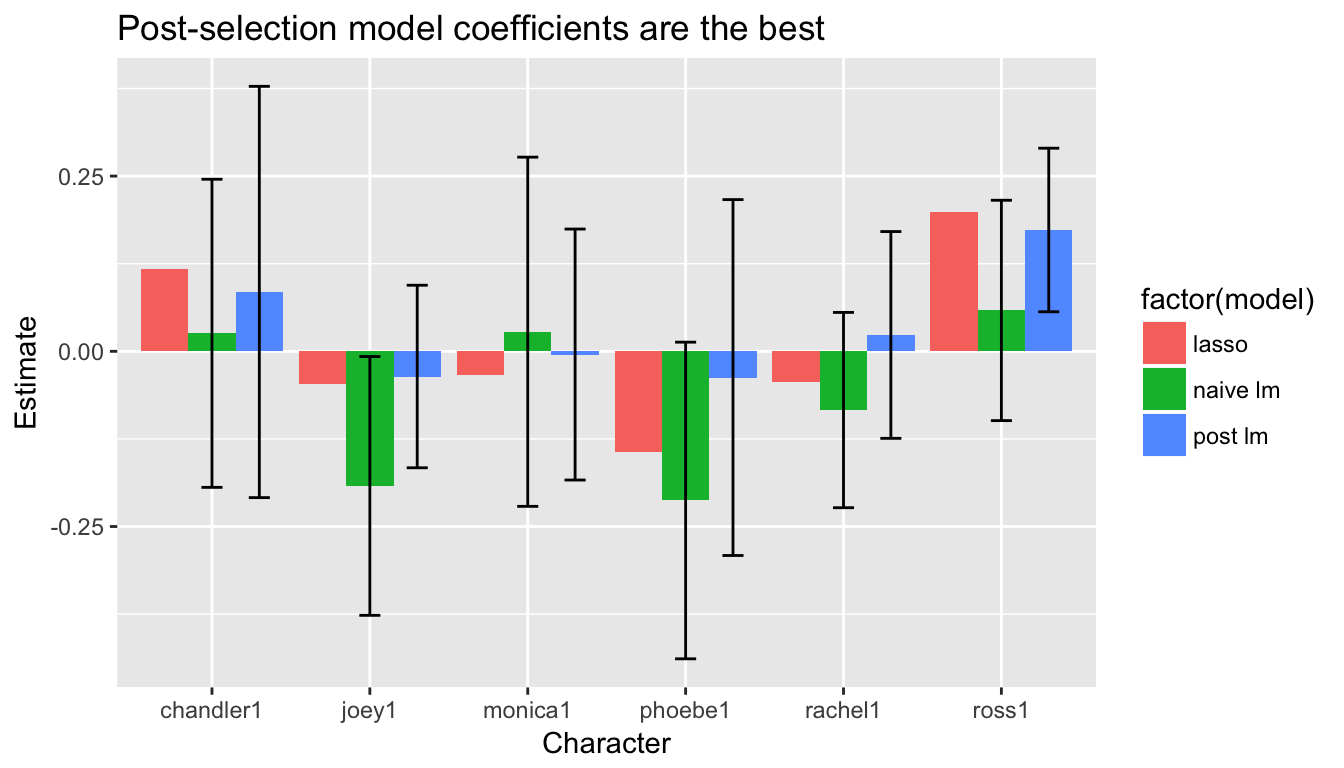
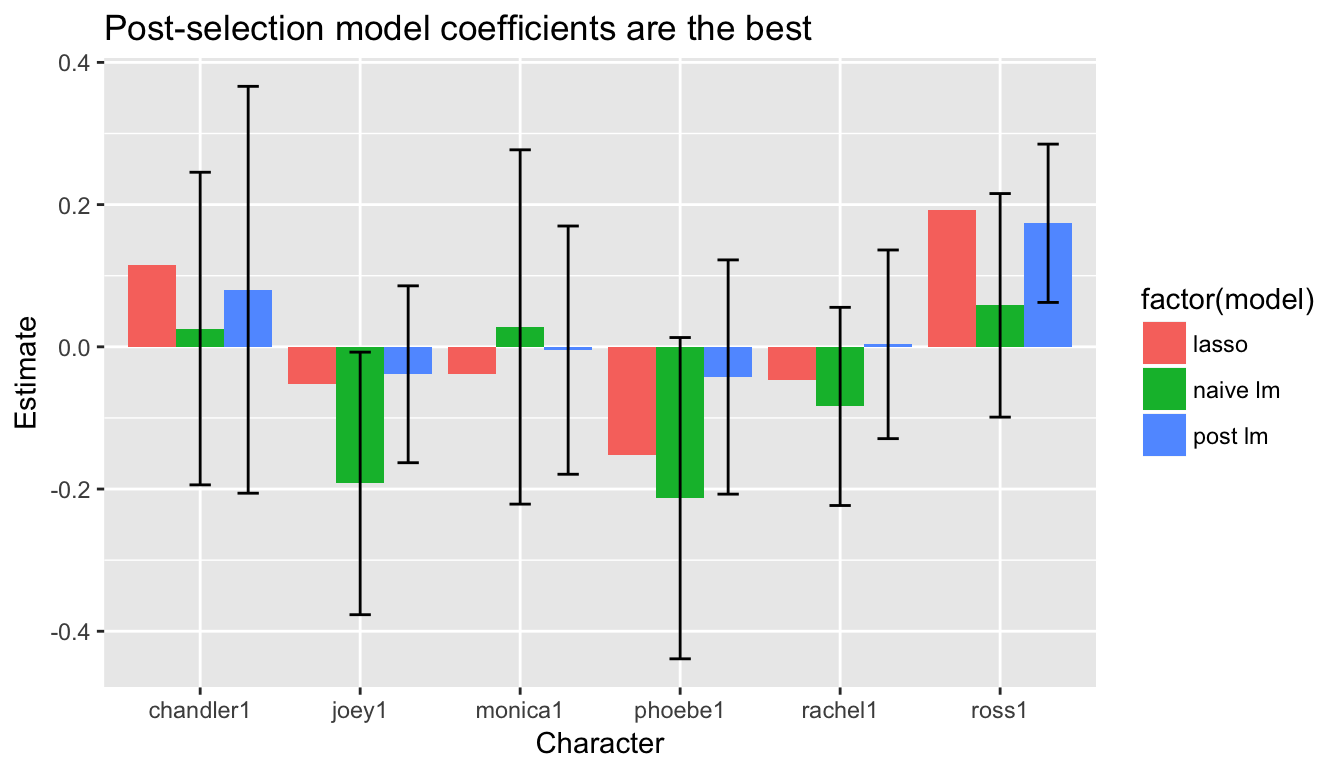
Slight update.
To the CV.

diff --git a/content/post/2017-12-24-sampling-replicate-v-rep.html b/content/post/2017-12-24-sampling-replicate-v-rep.html
@@ -12,10 +12,10 @@ description: 'A short post to describe repeatedly randomly generating objects.'
 
 <p>The problem: you want to generate a random collection of letters.</p>
 <pre class="r"><code>letters %&gt;% sample(size = 4) %&gt;% paste0(collapse = &quot;&quot;) 
-## [1] &quot;csid&quot;</code></pre>
+## [1] &quot;woje&quot;</code></pre>
 <p>Great. Now do it 10 times.</p>
 <pre class="r"><code>letters %&gt;% sample(size = 4) %&gt;% paste0(collapse = &quot;&quot;) %&gt;% rep(8)
-## [1] &quot;zyci&quot; &quot;zyci&quot; &quot;zyci&quot; &quot;zyci&quot; &quot;zyci&quot; &quot;zyci&quot; &quot;zyci&quot; &quot;zyci&quot;</code></pre>
+## [1] &quot;rdjy&quot; &quot;rdjy&quot; &quot;rdjy&quot; &quot;rdjy&quot; &quot;rdjy&quot; &quot;rdjy&quot; &quot;rdjy&quot; &quot;rdjy&quot;</code></pre>
 <p>😖. Why am I like this. Ok, <code>rep</code> copies the object 8 times. It doesn’t draw 8 samples. So just write a function:</p>
 <pre class="r"><code>sample_letters &lt;- function(size = 4) {
   letters %&gt;% sample(size = size) %&gt;% paste0(collapse = &quot;&quot;)
@@ -25,21 +25,21 @@ rep_(sample_letters, 8) %&gt;% .$error %&gt;% .$message
 ## [1] &quot;attempt to replicate an object of type &#39;closure&#39;&quot;</code></pre>
 <p>This gd thing (although I learned a bit about <code>safely</code> here, 👍). It wants to repeat the function definition, not repeatedly run the function. Ok.</p>
 <pre class="r"><code>rep(sample_letters(), 8)
-## [1] &quot;jupa&quot; &quot;jupa&quot; &quot;jupa&quot; &quot;jupa&quot; &quot;jupa&quot; &quot;jupa&quot; &quot;jupa&quot; &quot;jupa&quot;</code></pre>
+## [1] &quot;kopn&quot; &quot;kopn&quot; &quot;kopn&quot; &quot;kopn&quot; &quot;kopn&quot; &quot;kopn&quot; &quot;kopn&quot; &quot;kopn&quot;</code></pre>
 <p>Gd-it. Same problem. It runs the function once, then repeats the object 8 times. Ok, surely if I use <code>lapply</code> (or <code>sapply</code> = simplify apply?), which is designed to run functions a million times, this will work</p>
 <pre class="r"><code>sapply(1:8, function(x) { sample_letters() }) 
-## [1] &quot;iazy&quot; &quot;zpbs&quot; &quot;hgep&quot; &quot;nbwu&quot; &quot;osef&quot; &quot;mnwd&quot; &quot;cjqy&quot; &quot;mhwp&quot;</code></pre>
+## [1] &quot;rptf&quot; &quot;stmp&quot; &quot;epsw&quot; &quot;knyh&quot; &quot;fjhy&quot; &quot;xiuy&quot; &quot;rgwl&quot; &quot;nsxt&quot;</code></pre>
 <p>Ugh, finally. But a pyrrhic victory. The code is ugly and horrible and requires a function argument that we throw away like plastic bottles in the ocean and those arguments will come back and kill us all.</p>
 <p>Ok, double-checking the documentation in <code>lapply</code>, there’s finally one to do what I want. But of course (to Hadley’s dismay, I’m sure), the syntax is halfway between <code>lapply</code> and <code>rep</code>, which makes it impossible to remember.</p>
 <pre class="r"><code>replicate(8, sample_letters())
-## [1] &quot;xhqo&quot; &quot;foqm&quot; &quot;euhx&quot; &quot;zhvg&quot; &quot;njat&quot; &quot;nxag&quot; &quot;twkz&quot; &quot;igzw&quot;</code></pre>
+## [1] &quot;gbxh&quot; &quot;tpoe&quot; &quot;utpi&quot; &quot;rfpx&quot; &quot;cbpj&quot; &quot;gcml&quot; &quot;ekzy&quot; &quot;qhad&quot;</code></pre>
 <p>The <code>n</code> argument comes first like an <code>apply</code>, while in <code>rep</code> it comes second, but it’s called <code>replicate</code> and not <code>rapply</code>. On top of that, you can hack the regular <code>lapply</code> call to draw it randomly (as long as the size argument is in <code>sample_letters</code>), but now we’ve dropped the parentheses!</p>
 <pre class="r"><code>sapply(rep(4, 8), sample_letters)
-## [1] &quot;sndo&quot; &quot;clhd&quot; &quot;auhc&quot; &quot;ical&quot; &quot;cjmt&quot; &quot;pugy&quot; &quot;sxok&quot; &quot;idsx&quot;</code></pre>
+## [1] &quot;yqeh&quot; &quot;wehz&quot; &quot;akol&quot; &quot;fdzq&quot; &quot;ewsq&quot; &quot;mvqh&quot; &quot;drpx&quot; &quot;eynm&quot;</code></pre>
 <p>If we do that with <code>replicate</code>, it replicates the function definition. 😡. These are the mental steps I go through everytime I want to randomly sample something (usually just for fake data and testing).</p>
 <div id="answer-for-now" class="section level2">
 <h2>Answer, for now</h2>
 <pre class="r"><code>replicate(8, sample_letters())
-## [1] &quot;sihc&quot; &quot;yrpm&quot; &quot;ujmk&quot; &quot;ejrl&quot; &quot;zbnc&quot; &quot;yqwp&quot; &quot;fcyk&quot; &quot;dqnh&quot;</code></pre>
+## [1] &quot;lewt&quot; &quot;afjn&quot; &quot;qelb&quot; &quot;aktr&quot; &quot;tmlf&quot; &quot;sdvi&quot; &quot;zkdt&quot; &quot;dqyi&quot;</code></pre>
 <p>To do: understand wtf it’s ok to repeat a function definition (like in <code>replicate</code> without parentheses) but not other times (like in <code>rep</code> without parentheses).</p>
 </div>

diff --git a/content/post/2018-02-14-parliament-gender.html b/content/post/2018-02-14-parliament-gender.html
@@ -157,13 +157,13 @@ han_df %&gt;% print(n = 5)
 han_df &lt;- han_df %&gt;% mutate(time = with_tz(time, &quot;America/Toronto&quot;))
 han_df %&gt;% sample_n(5) # an easy way to look at a random sample of observations instead of just the first 10
 ## # A tibble: 5 x 11
-##   time                h1_en   h2_en h3_en who_en   politician_id wordcount
-##   &lt;dttm&gt;              &lt;chr&gt;   &lt;chr&gt; &lt;chr&gt; &lt;chr&gt;            &lt;int&gt;     &lt;int&gt;
-## 1 2017-10-23 17:30:00 &lt;NA&gt;    &lt;NA&gt;  &lt;NA&gt;  Ms. Meg…            NA         2
-## 2 2016-06-06 15:25:00 Routin… Priv… &lt;NA&gt;  The Spe…           242        33
-## 3 2011-02-03 12:25:00 &lt;NA&gt;    &lt;NA&gt;  &lt;NA&gt;  Mr. Yve…           169       148
-## 4 2013-02-14 09:05:00 &lt;NA&gt;    &lt;NA&gt;  &lt;NA&gt;  Chief M…            NA        28
-## 5 2007-03-29 13:40:00 &lt;NA&gt;    &lt;NA&gt;  &lt;NA&gt;  Mr. Pau…           421         2
+##   time                h1_en  h2_en  h3_en who_en   politician_id wordcount
+##   &lt;dttm&gt;              &lt;chr&gt;  &lt;chr&gt;  &lt;chr&gt; &lt;chr&gt;            &lt;int&gt;     &lt;int&gt;
+## 1 2017-03-09 17:10:00 &lt;NA&gt;   &lt;NA&gt;   &lt;NA&gt;  The Cha…          9556         5
+## 2 1998-11-30 15:00:00 Oral … Prese… &lt;NA&gt;  The Spe…            NA        23
+## 3 2011-11-14 17:00:00 &lt;NA&gt;   &lt;NA&gt;   &lt;NA&gt;  Mr. Dar…           157       100
+## 4 2007-06-19 10:00:00 &lt;NA&gt;   &lt;NA&gt;   &lt;NA&gt;  Hon. Mi…            64       691
+## 5 2010-06-01 13:30:00 &lt;NA&gt;   &lt;NA&gt;   &lt;NA&gt;  The Cha…           424         7
 ## # ... with 4 more variables: who_hocid &lt;chr&gt;, who_context_en &lt;chr&gt;,
 ## #   name &lt;chr&gt;, gender &lt;chr&gt;</code></pre>
 <p>Ok, now we’re getting somewhere. I want to check two things: (1) what does the time distribution look like? and (2) can we get the gender of the MPs from names? We got genders from the politician database, but there are some sanity checks we’ll need. Leave that for later.</p>
@@ -186,13 +186,13 @@ han_df %&gt;% sample_n(5) # an easy way to look at a random sample of observatio
   filter(gender != &quot;&quot;)
 words_gender %&gt;% select(who_en, gender, gender_x) %&gt;% sample_n(5)
 ## # A tibble: 5 x 3
-##   who_en                             gender gender_x
-##   &lt;chr&gt;                              &lt;chr&gt;  &lt;chr&gt;   
-## 1 The Chair                          M      &quot;&quot;      
-## 2 Mr. Larry Bagnell (Yukon, Lib.)    M      M       
-## 3 The Chair                          M      &quot;&quot;      
-## 4 The Chair                          M      &quot;&quot;      
-## 5 The Vice-Chair (Mr. Malcolm Allen) M      M</code></pre>
+##   who_en                                                   gender gender_x
+##   &lt;chr&gt;                                                    &lt;chr&gt;  &lt;chr&gt;   
+## 1 Hon. Lisa Raitt (Minister of Natural Resources, CPC)     F      &quot;&quot;      
+## 2 The Chair                                                M      &quot;&quot;      
+## 3 Mr. Dean Del Mastro (Parliamentary Secretary to the Pri… M      M       
+## 4 Mr. Luc Berthold                                         M      M       
+## 5 Mr. William Amos                                         M      M</code></pre>
 Ok, that’s not bad; now what are the overall statistics?
 <table class="table" style="width: auto !important; margin-left: auto; margin-right: auto;">
 <thead>
@@ -233,7 +233,7 @@ M
 </tr>
 </tbody>
 </table>
-<p>Not great. Does it change over time? We know 2015 was a record breaking election for female candidates; on the other hand, the previous record was 1993. So in between: 🤷🏾♂.</p>
+<p>Not great. Does it change over time? We know 2015 was a record breaking election for female candidates; on the other hand, the previous record was 1993. So in between: 🤷🏿♀.</p>
 <p><img src="/post/2018-02-14-parliament-gender_files/figure-html/unnamed-chunk-10-1.png" width="768" /></p>
 <p>Whoops. There’s an obvious break in the series for Count—so something happened to the data collection or the structure of the hansard (it’s less likely that parliament itself changed significantly at that time). On the plus side, women get more words in Parliament over time!</p>
 </div>

diff --git a/content/post/2018-02-20-simulate-ab-testing-data.html b/content/post/2018-02-20-simulate-ab-testing-data.html
@@ -134,15 +134,15 @@ events_df &lt;- df %&gt;%
     select(id, session = value, treatment, click) # re-organize
 
 events_df %&gt;% print(n = 5)
-## # A tibble: 4,971 x 4
+## # A tibble: 4,812 x 4
 ##   id                               session             treatment click
 ##   &lt;chr&gt;                            &lt;dttm&gt;                  &lt;int&gt; &lt;int&gt;
-## 1 42171b71106f1957827f0b2452a74dc9 2018-01-07 05:36:13         1     0
-## 2 42171b71106f1957827f0b2452a74dc9 2018-01-04 17:33:45         1     1
-## 3 42171b71106f1957827f0b2452a74dc9 2018-01-06 13:26:51         1     1
-## 4 2834e53a55f01c4b18ef398f0d0ef4fe 2018-01-01 06:36:04         0     1
-## 5 2834e53a55f01c4b18ef398f0d0ef4fe 2018-02-17 17:12:25         0     1
-## # ... with 4,966 more rows</code></pre>
+## 1 42171b71106f1957827f0b2452a74dc9 2018-03-01 23:38:39         0     0
+## 2 42171b71106f1957827f0b2452a74dc9 2018-07-26 11:34:38         0     0
+## 3 42171b71106f1957827f0b2452a74dc9 2018-07-16 00:21:23         0     1
+## 4 42171b71106f1957827f0b2452a74dc9 2018-06-05 04:31:04         0     0
+## 5 42171b71106f1957827f0b2452a74dc9 2018-05-31 02:25:46         0     0
+## # ... with 4,807 more rows</code></pre>
 <p>What if you assigned treatment to sessions instead of to users (see <a href="https://towardsdatascience.com/the-second-ghost-of-experimentation-the-fallacy-of-session-based-metrics-fb65006d30ff">this Skyscanner post</a> for an overview of the problems you’re in for)?</p>
 <pre class="r"><code>events_df &lt;- events_df %&gt;% 
   mutate(treatment = rbinom(length(treatment), 1, 0.5),
@@ -150,23 +150,23 @@ events_df %&gt;% print(n = 5)
 <p>What’s the difference between these two datasets?</p>
 <pre class="r"><code># with user ids
 events_df %&gt;% print(n = 3)
-## # A tibble: 4,971 x 4
+## # A tibble: 4,812 x 4
 ##   id                               session             treatment click
 ##   &lt;chr&gt;                            &lt;dttm&gt;                  &lt;int&gt; &lt;int&gt;
-## 1 42171b71106f1957827f0b2452a74dc9 2018-01-07 05:36:13         1     1
-## 2 42171b71106f1957827f0b2452a74dc9 2018-01-04 17:33:45         1     0
-## 3 42171b71106f1957827f0b2452a74dc9 2018-01-06 13:26:51         1     1
-## # ... with 4,968 more rows
+## 1 42171b71106f1957827f0b2452a74dc9 2018-03-01 23:38:39         0     0
+## 2 42171b71106f1957827f0b2452a74dc9 2018-07-26 11:34:38         0     1
+## 3 42171b71106f1957827f0b2452a74dc9 2018-07-16 00:21:23         0     0
+## # ... with 4,809 more rows
 
 # session id only
 events_df %&gt;% select(-id) %&gt;% print(n = 3)
-## # A tibble: 4,971 x 3
+## # A tibble: 4,812 x 3
 ##   session             treatment click
 ##   &lt;dttm&gt;                  &lt;int&gt; &lt;int&gt;
-## 1 2018-01-07 05:36:13         1     1
-## 2 2018-01-04 17:33:45         1     0
-## 3 2018-01-06 13:26:51         1     1
-## # ... with 4,968 more rows</code></pre>
+## 1 2018-03-01 23:38:39         0     0
+## 2 2018-07-26 11:34:38         0     1
+## 3 2018-07-16 00:21:23         0     0
+## # ... with 4,809 more rows</code></pre>
 <p>In the first case, even though you randomized over sessions instead of users, at least you have the user ids in the first dataset and you might be able to correct for within-user session dependence. If you don’t have the users, you might be in trouble.</p>
 </div>
 </div>

diff --git a/content/post/2018-02-17-testing-urls.html b/content/post/2018-02-17-testing-urls.html
@@ -38,7 +38,7 @@ safely(http_error)(&quot;https://boycott.google.ca&quot;)$error
 <pre class="r"><code>safely(HEAD)(&quot;ftp://ftp.nrcan.gc.ca/ess/sgb_pub/sgb_datasets/mb/FOX_LAKE_WEST_3/FOX_LAKE_WEST_3_SHP.zip&quot;)
 ## $result
 ## Response [ftp://ftp.nrcan.gc.ca/ess/sgb_pub/sgb_datasets/mb/FOX_LAKE_WEST_3/FOX_LAKE_WEST_3_SHP.zip]
-##   Date: 2018-02-17 16:45
+##   Date: 2018-08-10 15:12
 ##   Status: 350
 ##   Content-Type: &lt;unknown&gt;
 ##   Size: 91 B
@@ -49,7 +49,7 @@ safely(http_error)(&quot;https://boycott.google.ca&quot;)$error
 quietly(HEAD)(&quot;ftp://ftp.nrcan.gc.ca/ess/sgb_pub/sgb_datasets/mb/FOX_LAKE_WEST_3/FOX_LAKE_WEST_3_SHP.zip&quot;)
 ## $result
 ## Response [ftp://ftp.nrcan.gc.ca/ess/sgb_pub/sgb_datasets/mb/FOX_LAKE_WEST_3/FOX_LAKE_WEST_3_SHP.zip]
-##   Date: 2018-02-17 16:45
+##   Date: 2018-08-10 15:12
 ##   Status: 350
 ##   Content-Type: &lt;unknown&gt;
 ##   Size: 91 B
@@ -60,7 +60,7 @@ quietly(HEAD)(&quot;ftp://ftp.nrcan.gc.ca/ess/sgb_pub/sgb_datasets/mb/FOX_LAKE_W
 ## 
 ## $warnings
 ## [1] &quot;NAs introduced by coercion to integer range&quot;                              
-## [2] &quot;Failed to parse headers:\n213 97668\n350 Restart position accepted (0).\n&quot;
+## [2] &quot;Failed to parse headers:\n213 97639\n350 Restart position accepted (0).\n&quot;
 ## 
 ## $messages
 ## character(0)</code></pre>
@@ -99,7 +99,7 @@ quietly_safely_head(&quot;http://www.acdi-cida.gc.ca&quot;)
 ## NULL
 ## 
 ## $result$error
-## &lt;simpleError in curl::curl_fetch_memory(url, handle = handle): Timeout was reached: Operation timed out after 1005 milliseconds with 0 bytes received&gt;
+## &lt;simpleError in curl::curl_fetch_memory(url, handle = handle): Timeout was reached: Operation timed out after 1002 milliseconds with 0 bytes received&gt;
 ## 
 ## 
 ## $output
@@ -116,7 +116,7 @@ quietly_safely_head(&quot;http://www.acdi-cida.gc.ca&quot;)
 <p>Redirects are annoying; check the <code>status_code</code> from <code>HEAD</code> <a href="https://stackoverflow.com/questions/21680643/i-would-like-to-check-if-url-redirects-to-another-page-in-r/48842128#48842128">doesn’t return a redirect code (300)</a>, because it follows the redirect to the new page and returns the status of that page. Instead, the <code>HEAD</code> returns a result that includes the url it actually accessed, so just check if that is the same as the url you asked for:</p>
 <pre class="r"><code>HEAD(&quot;https://www.google.ca&quot;)
 ## Response [https://www.google.ca/]
-##   Date: 2018-02-17 21:45
+##   Date: 2018-08-10 19:12
 ##   Status: 200
 ##   Content-Type: text/html; charset=ISO-8859-1
 ## &lt;EMPTY BODY&gt;

diff --git a/content/post/2018-02-19-why-bother-with-covariates-if-treatment-is-randomly-assigned.html b/content/post/2018-02-19-why-bother-with-covariates-if-treatment-is-randomly-assigned.html
@@ -99,16 +99,16 @@ dfs_estimates
 ## # A tibble: 2,000 x 10
 ##    id         N  beta true_coefficient model    term    estimate std.error
 ##    &lt;chr&gt;  &lt;dbl&gt; &lt;dbl&gt;            &lt;dbl&gt; &lt;chr&gt;    &lt;chr&gt;      &lt;dbl&gt;     &lt;dbl&gt;
-##  1 1     10000. 0.100            0.160 base     treatm…   0.0420    0.0400
-##  2 1     10000. 0.100            0.160 covaria… treatm…   0.105     0.0493
-##  3 2     10000. 0.100            0.160 base     treatm…   0.0663    0.0400
-##  4 2     10000. 0.100            0.160 covaria… treatm…   0.149     0.0496
-##  5 3     10000. 0.100            0.160 base     treatm…   0.115     0.0400
-##  6 3     10000. 0.100            0.160 covaria… treatm…   0.204     0.0495
-##  7 4     10000. 0.100            0.160 base     treatm…   0.178     0.0400
-##  8 4     10000. 0.100            0.160 covaria… treatm…   0.207     0.0491
-##  9 5     10000. 0.100            0.160 base     treatm…   0.159     0.0400
-## 10 5     10000. 0.100            0.160 covaria… treatm…   0.190     0.0493
+##  1 1     10000. 0.100            0.160 base     treatm…   0.150     0.0401
+##  2 1     10000. 0.100            0.160 covaria… treatm…   0.221     0.0494
+##  3 2     10000. 0.100            0.160 base     treatm…   0.0730    0.0400
+##  4 2     10000. 0.100            0.160 covaria… treatm…   0.117     0.0486
+##  5 3     10000. 0.100            0.160 base     treatm…   0.123     0.0400
+##  6 3     10000. 0.100            0.160 covaria… treatm…   0.166     0.0490
+##  7 4     10000. 0.100            0.160 base     treatm…   0.127     0.0400
+##  8 4     10000. 0.100            0.160 covaria… treatm…   0.186     0.0494
+##  9 5     10000. 0.100            0.160 base     treatm…   0.104     0.0400
+## 10 5     10000. 0.100            0.160 covaria… treatm…   0.183     0.0492
 ## # ... with 1,990 more rows, and 2 more variables: statistic &lt;dbl&gt;,
 ## #   p.value &lt;dbl&gt;</code></pre>
 <p>Done and done.</p>

diff --git a/content/post/2017-12-23-friends-title-generator.html b/content/post/2017-12-23-friends-title-generator.html
@@ -99,16 +99,16 @@ titles %&gt;% filter(grepl(&quot;dies&quot;, title, ignore.case = TRUE))
   new_title[-length(new_title)] %&gt;% paste(collapse = &quot; &quot;) %&gt;% stringr::str_to_title()
 }
 generate_title()
-## [1] &quot;The One With Christmas In Vegas Part 2&quot;</code></pre>
+## [1] &quot;The One Where Rachel Quits&quot;</code></pre>
 <p>Yeaaa! Here’s a few more:</p>
 <pre class="r"><code>replicate(5, generate_title())
-## [1] &quot;The One Where Monica Sings&quot;  &quot;The One Where Ross Got High&quot;
-## [3] &quot;The One Where Phoebe Runs&quot;   &quot;The One With The Fake Party&quot;
-## [5] &quot;The One Where Phoebe Runs&quot;</code></pre>
+## [1] &quot;The One With Ross And C.h.e.e.s.e&quot; &quot;The One With The Monkey&quot;          
+## [3] &quot;The One With The Ball&quot;             &quot;The One Where Ross Got High&quot;      
+## [5] &quot;The One With The Screamer&quot;</code></pre>
 <p>Problem: since this is based on only 236 titles, it tends to generate titles that already exist. E.g., there is only one time the word ‘George’ shows up in a title, so anytime the title generator hits ‘The One With George’, the next word will always be ‘Stephanopolous’, and then it will always end.</p>
 <p>We can try to fix this in the next installment, by using the <code>tidytext::parts_of_speech</code> dataset to generate sentence structures and then populate them with words, e.g., <code>&quot;the one where [noun] [verb]&quot;</code>.</p>
 <p>Anyway, here’s a title that’s randomly generated every time Netlify rebuilds this post:</p>
 </div>
-<div id="the-one-with-the-sonogram-at-the-cat" class="section level1">
-<h1>The One With The Sonogram At The Cat</h1>
+<div id="the-one-with-monica-and-rachel" class="section level1">
+<h1>The One With Monica And Rachel</h1>
 </div>

diff --git a/content/post/2017-12-24-friends-title-generator-2.html b/content/post/2017-12-24-friends-title-generator-2.html
@@ -221,15 +221,15 @@ generate_title &lt;- function() {
 <div id="now-make-a-pos-title-r" class="section level2">
 <h2>Now make a pos title, R!</h2>
 <pre class="r"><code>generate_title() 
-## [1] &quot;The One In Ross And The Factor&quot;</code></pre>
+## [1] &quot;The One With The Dollhouse&quot;</code></pre>
 <p>Dang, I hope these are good. But they’re generated when Netlify builds the site so 🤷♀.</p>
 <p>And five more, for fun:</p>
 <pre class="r"><code>replicate(5, generate_title())
-## [1] &quot;The One With The New&quot;         &quot;The One With The Stripper&quot;   
-## [3] &quot;The One Where Ross And Class&quot; &quot;The One With The Class&quot;      
-## [5] &quot;The One With The Night&quot;</code></pre>
+## [1] &quot;The One With The Male Shirt&quot;    &quot;The One With One Rachel Rachel&quot;
+## [3] &quot;The One With The Birthing Leia&quot; &quot;The One With The Rachel&quot;       
+## [5] &quot;The One That Could&quot;</code></pre>
 <p>And one randomly generated header title:</p>
 </div>
-<div id="the-one-with-that-champion" class="section level1">
-<h1>The One With That Champion</h1>
+<div id="the-one-where-opera" class="section level1">
+<h1>The One Where Opera</h1>
 </div>

diff --git a/content/post/2017-12-18-rvest-friends-episodes.html b/content/post/2017-12-18-rvest-friends-episodes.html
@@ -80,7 +80,7 @@ titles %&gt;% arrange(-rating) %&gt;% head(5)
 ## 4    10.     17. The Last One: Part 1     9.50     4311. &lt;chr [1… &lt;chr [2…
 ## 5     2.     14. The One with the Prom…   9.40     3750. &lt;chr [1… &lt;chr [1…</code></pre>
 <p>‘Embryos’ is the ep where the winner of a quiz wins Monica and Rachel’s apartment. So good. ‘Everybody Finds Out’: it’s the one where Phoebe finds out about Monica/Chandler’s relationship; great ep (other than the Phoebe line I always hated “my eyes! my eyes!”). It’s also a great example of common knowledge and rational agents in game theory.</p>
-<p>One problem with titles: “The One with the Embryos” gives no information other than a noun that is related to babies. 😟 No character names and no indication of why I like it.</p>
+<p>One problem with titles: “The One with the Embryos” gives no information other than a noun that is related to babies. 😞 No character names and no indication of why I like it.</p>
 <pre class="r"><code># The worst episodes
 titles %&gt;% arrange(rating) %&gt;% head(5)
 ## # A tibble: 5 x 7

diff --git a/content/post/2017-12-22-post-selection-inference-on-friends-titles-in-r.html b/content/post/2017-12-22-post-selection-inference-on-friends-titles-in-r.html
@@ -115,18 +115,18 @@ c &lt;- cv.glmnet(ep_mm, episodes$rating, penalty.factor = penalty.factor) %&gt;
 lasso &lt;- tibble(term = names(c), estimate = c)
 lasso
 ## # A tibble: 236 x 2
-##    term       estimate
-##    &lt;chr&gt;         &lt;dbl&gt;
-##  1 chandler1  0.118   
-##  2 joey1     -0.0471  
-##  3 monica1   -0.0345  
-##  4 phoebe1   -0.144   
-##  5 rachel1   -0.0432  
-##  6 ross1      0.199   
-##  7 season2    0.      
-##  8 season3   -0.000183
-##  9 season4    0.000654
-## 10 season5    0.0598  
+##    term      estimate
+##    &lt;chr&gt;        &lt;dbl&gt;
+##  1 chandler1   0.115 
+##  2 joey1      -0.0525
+##  3 monica1    -0.0387
+##  4 phoebe1    -0.152 
+##  5 rachel1    -0.0470
+##  6 ross1       0.192 
+##  7 season2     0.    
+##  8 season3     0.    
+##  9 season4     0.    
+## 10 season5     0.0565
 ## # ... with 226 more rows</code></pre>
 </div>
 <div id="do-post-selection-estimation" class="section level3">

diff --git a/content/cv.md b/content/cv.md
@@ -15,7 +15,7 @@ Research Economist --- Statistics Canada, 2014--Current
 
 ### Education :school_satchel:
 
-PhD, Economics --- University of Calgary, 2018 (expected)
+PhD, Economics --- University of Calgary, 2018
 
 ### Publications :blue_book:
 
